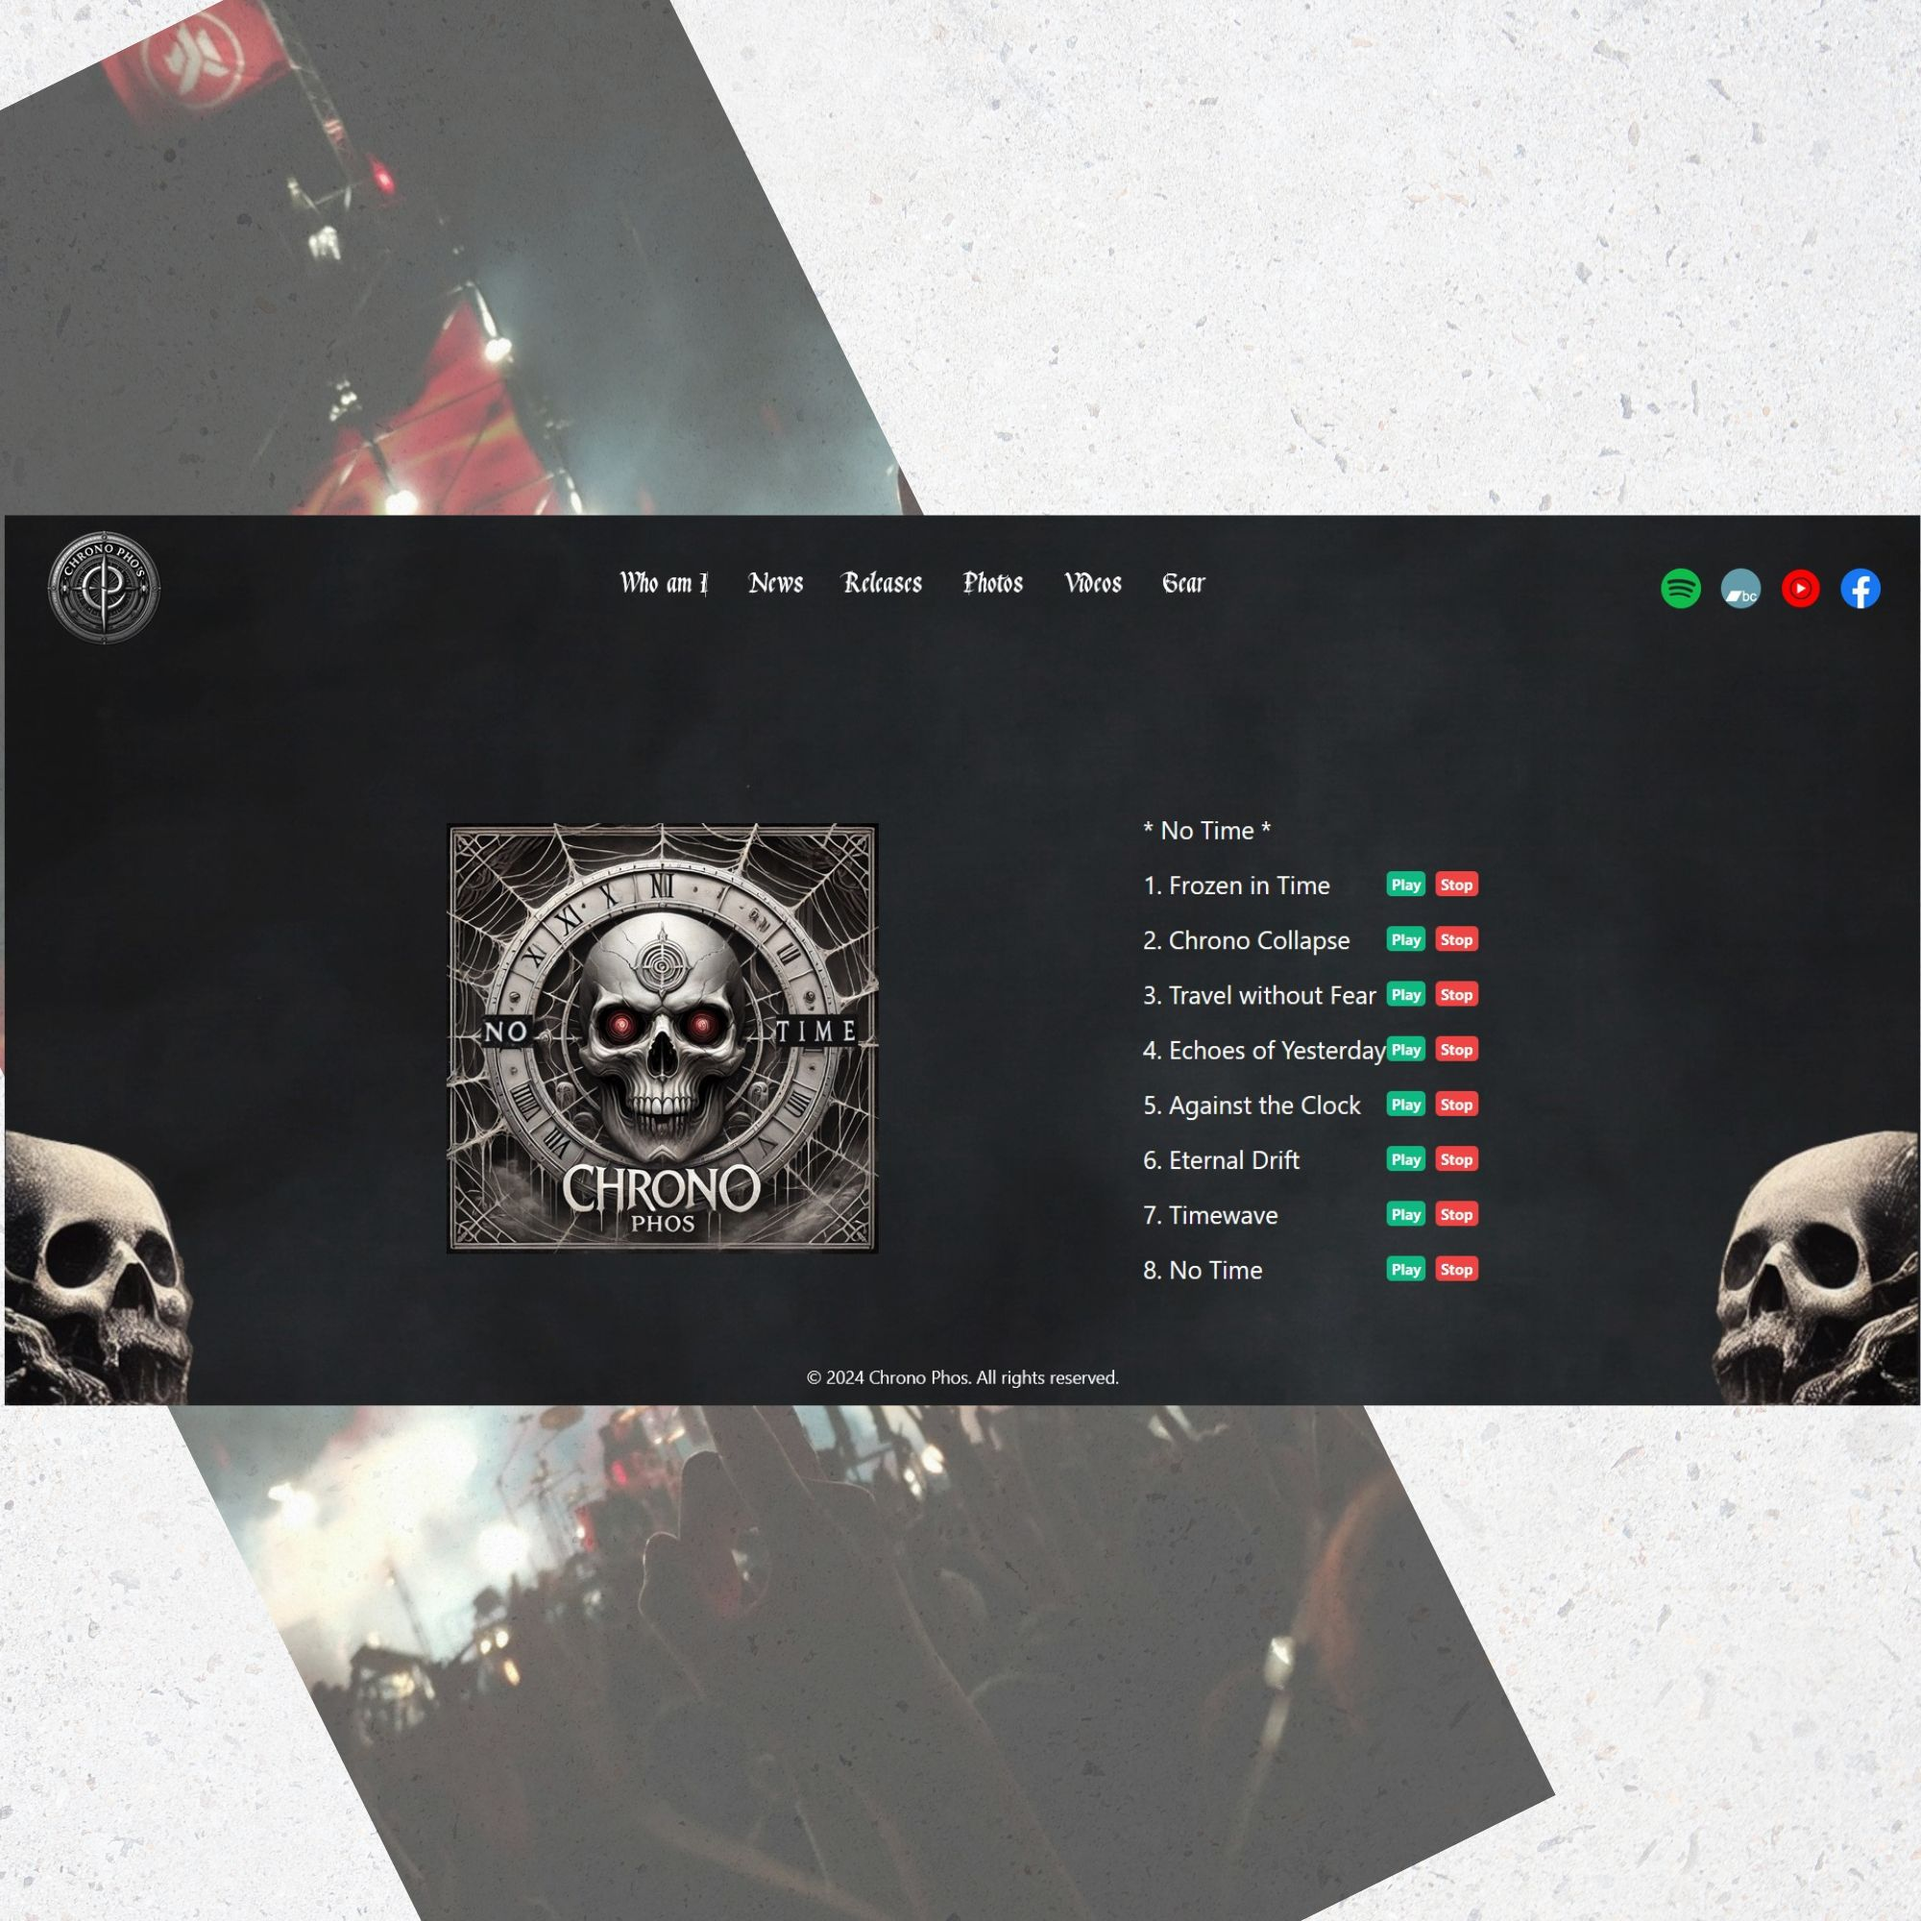
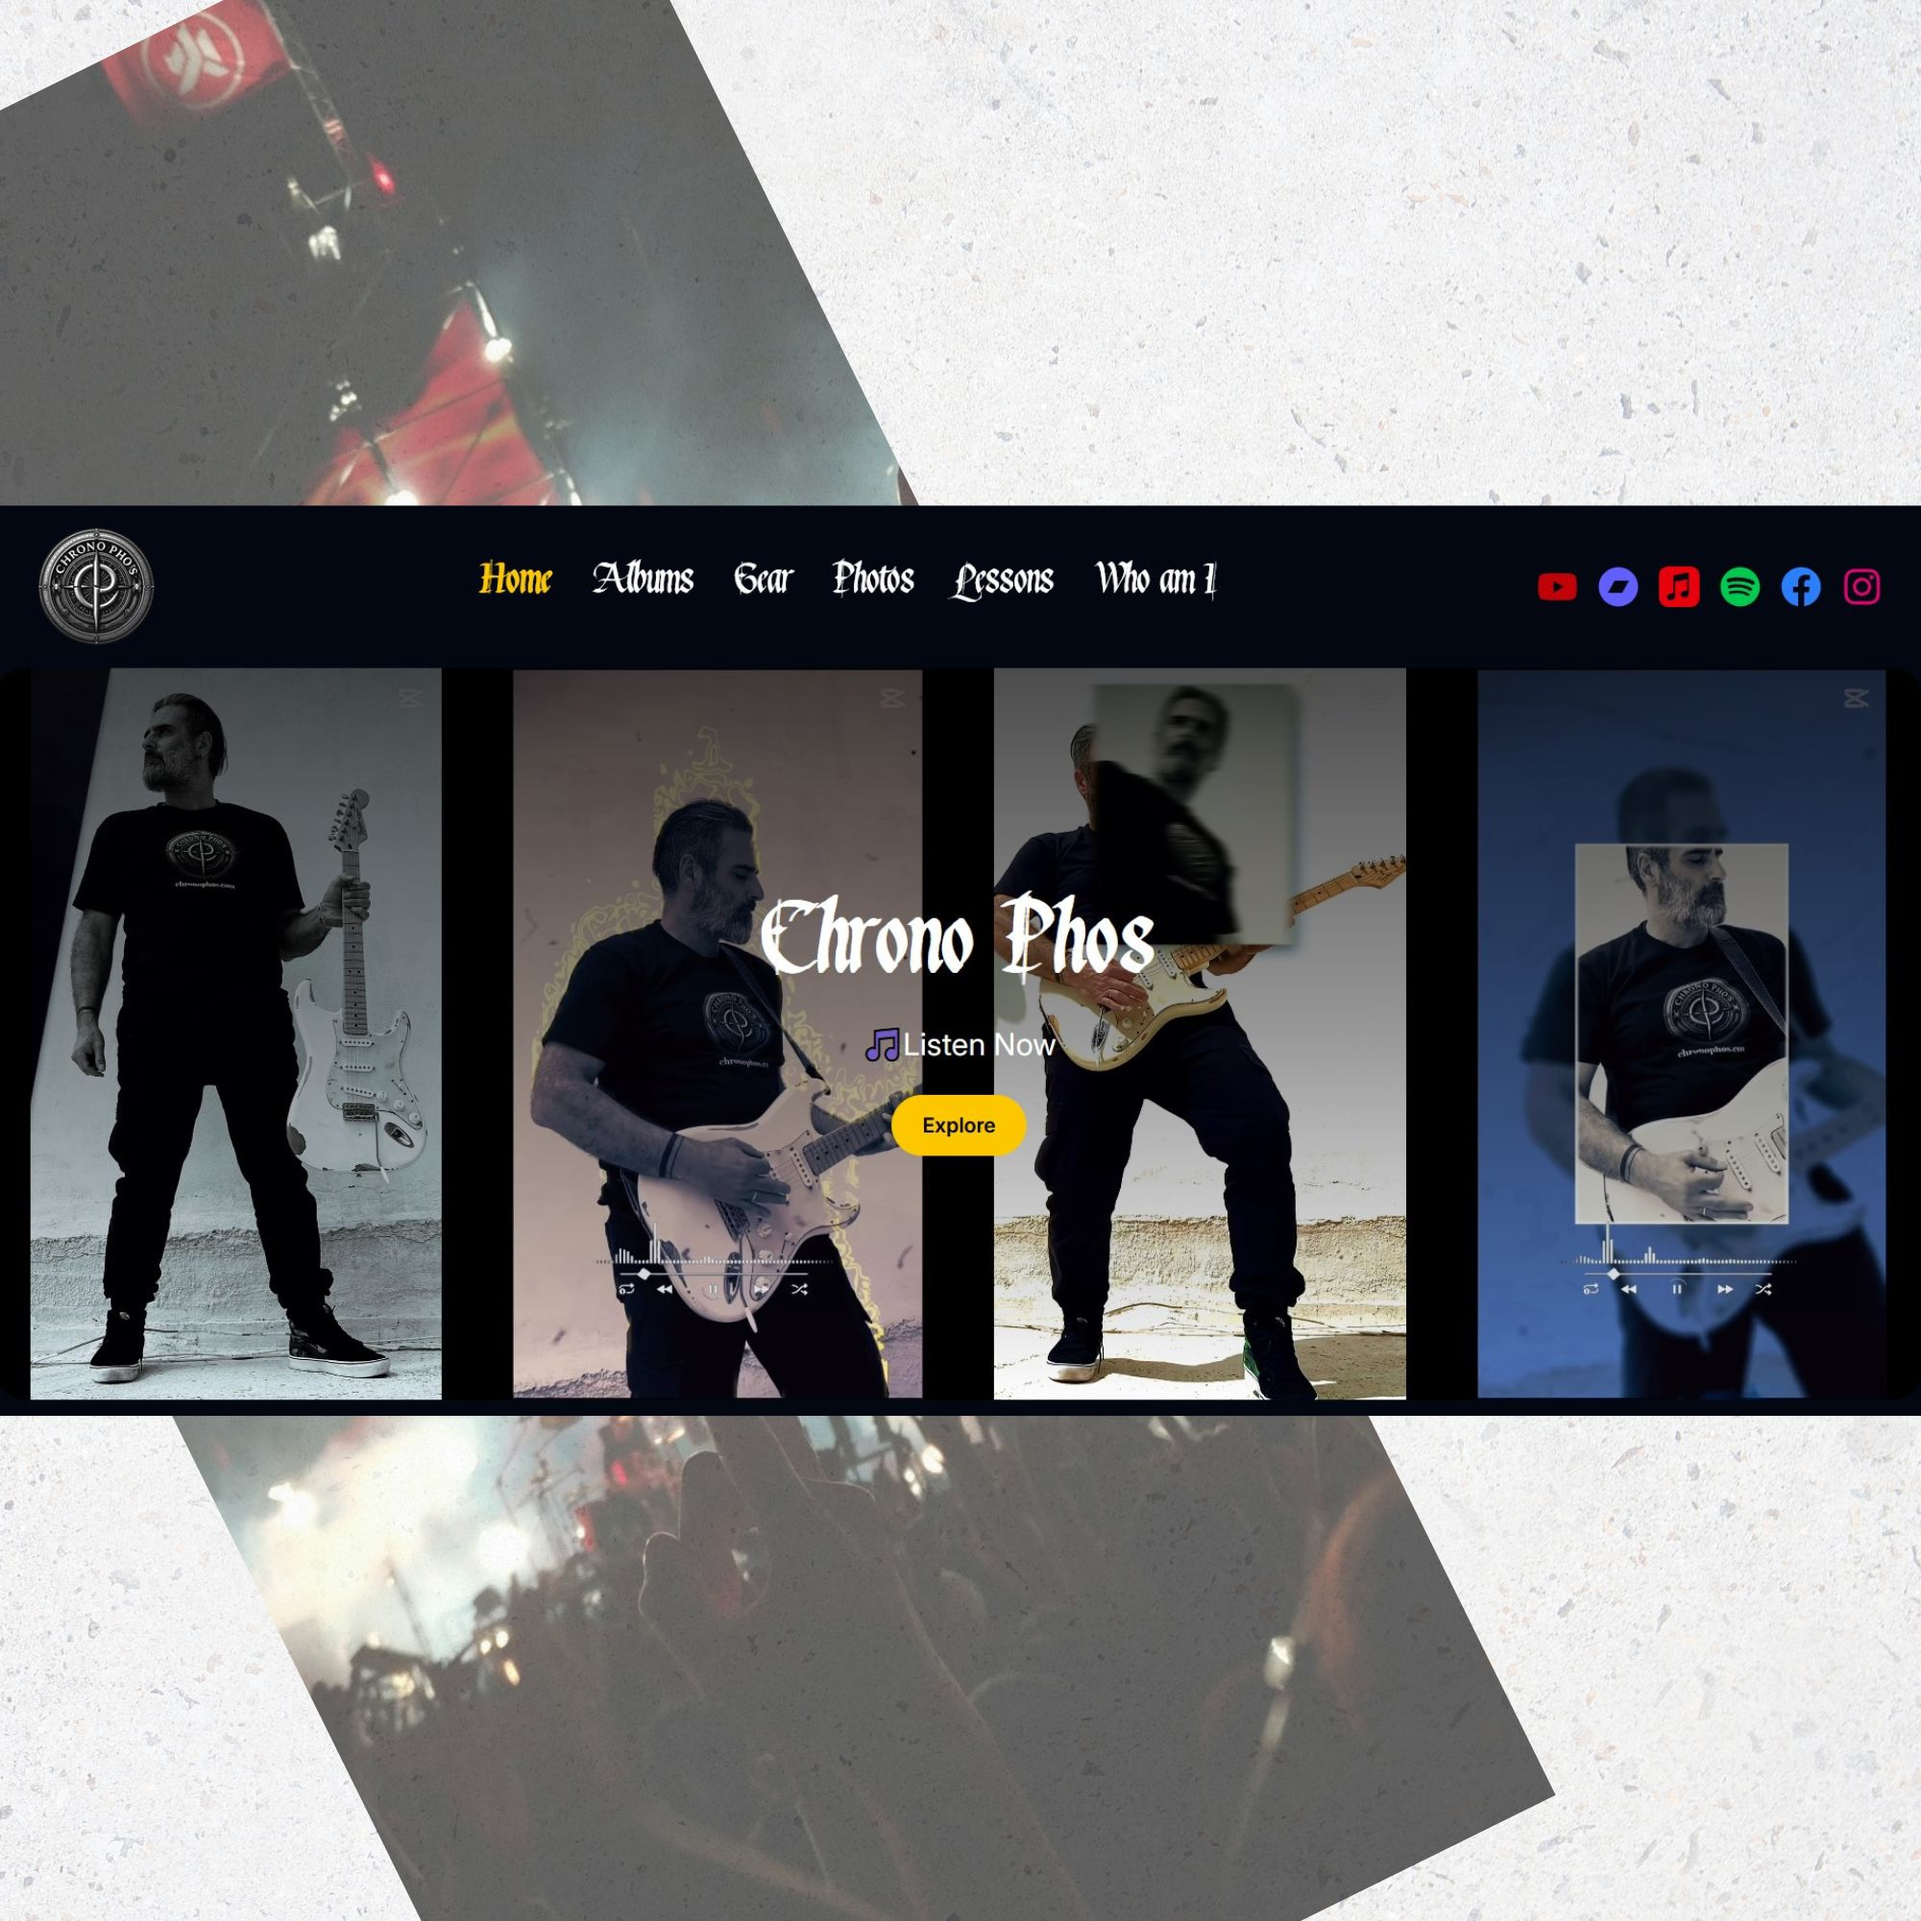
Project Update

diff --git a/Portfolio/src/components/projectContent/ChronoPhos.jsx b/Portfolio/src/components/projectContent/ChronoPhos.jsx
@@ -9,13 +9,9 @@ const ChronoPhos = () => {
           >
             <p className="text-neutral-600 text-base md:text-2xl font-sans max-w-3xl mx-auto">
               <span className="font-bold text-neutral-700">
-                Designed and developed ChronoPhos.com entirely from scratch
+               Migrated ChronoPhos.com from a static HTML/Tailwind/JS stack to a modern React + Vite architecture
               </span>{" "}
-              using HTML, Tailwind CSS, and JavaScript. The website showcases my
-              instrumental stoner music project Chrono Phos, blending minimal
-              aesthetics with a dark atmospheric tone that reflects the mood of
-              the album. Focused on smooth navigation, responsive design, and an
-              immersive visual experience for listeners.
+              with React Router v7 for optimized routing. Implemented reusable components, responsive design, and Tailwind styling to maintain the project’s dark atmospheric identity while significantly improving performance and long-term maintainability.
             </p>
             <div className="flex justify-center ">
               <a

diff --git a/Portfolio/src/components/Projects.jsx b/Portfolio/src/components/Projects.jsx
@@ -51,18 +51,25 @@ const DummyContent = () => {
 };
 
 const data = [
+    {
+    category: "Band Page",
+    title: "ChronoPhos metal Band",
+    src: "./images/chronophos.jpg",
+    content: <ChronoPhos />,
+  },
+    {
+    category: "Business page",
+    title: "Made with Wordpress and Elementor",
+    src: "./images/Kalimera.jpg",
+    content: <KalimeraAthens />,
+  },
   {
     category: "Cart Page",
     title: "React-Zustand-TailwindCss",
     src: "./images/Cart.png",
     content: <ProjectCart />,
   },
-  {
-    category: "Business page",
-    title: "Made with Wordpress and Elementor",
-    src: "./images/Kalimera.jpg",
-    content: <KalimeraAthens />,
-  },
+
   {
     category: "E-Shop",
     title: "Wordpress and WooCommerce",
@@ -70,12 +77,7 @@ const data = [
     content: <Pinkup />,
   },
 
-  {
-    category: "Band Page",
-    title: "ChronoPhos metal Band",
-    src: "./images/chronophos.jpg",
-    content: <ChronoPhos />,
-  },
+
   {
     category: "Front End Mentor",
     title: "Html,Css,JS,TailwindCss Projects",
